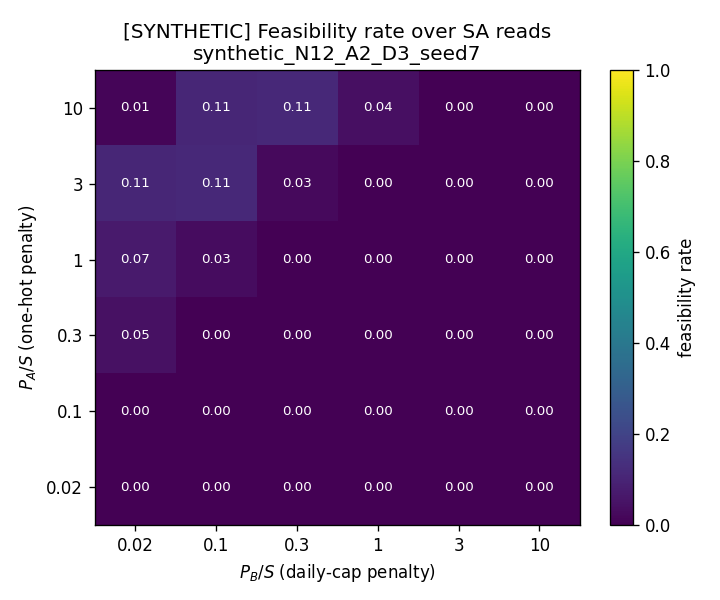
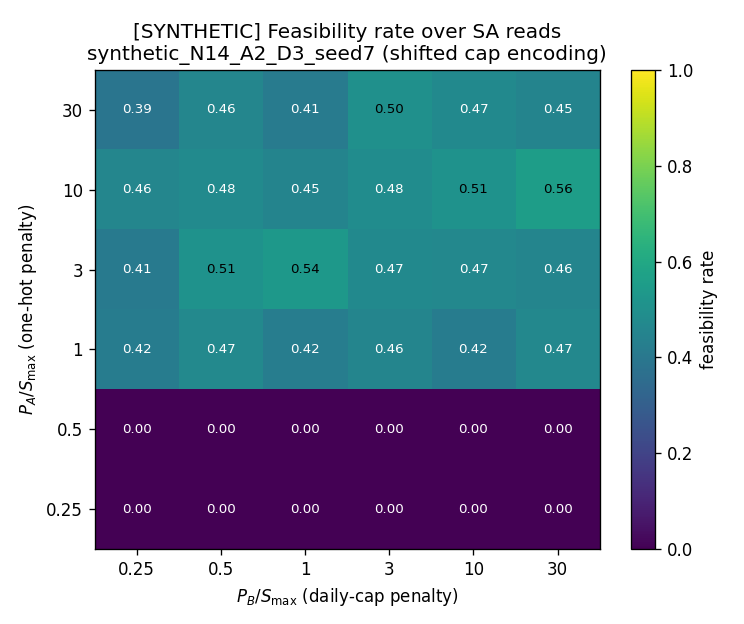
Experiment 01: penalty calibration + cap-encoding (v1->v2) comparison
- Sweep P_A,P_B as multiples of S_max; feasible regime at P_A>=1*S_max, gap~1%.
- Below 0.5*S_max: 0% feasible (one-hot too weak). P_A is the binding threshold.
- Encoding comparison: shifted ~50% vs absolute ~1% feasible across penalties.

diff --git a/experiments/01_penalty_calibration.py b/experiments/01_penalty_calibration.py
@@ -1,67 +1,71 @@
-"""Experiment 01 — Penalty calibration.
+"""Experiment 01 — Penalty calibration and the cap-encoding iteration.
 
-Question: how large must the HARD penalties P_A (one-hot) and P_B (daily cap) be,
-relative to the objective scale, for SA to return feasible AND near-optimal plans?
+Two questions:
 
-We sweep P_A = alpha · S and P_B = beta · S, where S = objective_scale(instance)
-(the sum of |c - v|, an upper bound on the objective an infeasible solution could
-"buy" by cheating a constraint). For each (alpha, beta) we measure:
-  * feasibility rate over all SA reads, and
-  * optimality gap of the best feasible SA solution vs the ILP optimum.
+(A) How large must the HARD penalties P_A (one-hot) and P_B (daily cap) be,
+    relative to the objective scale, for SA to return feasible AND near-optimal
+    plans? We sweep P_A = alpha · S_max and P_B = beta · S_max, where
+    S_max = max_{i,a} |c - v| is the largest single objective coefficient — the
+    Lagrangian bound a hard penalty must beat (a single constraint-cheating flip
+    can buy at most ~S_max of objective). For each (alpha, beta) we report the
+    feasibility rate over SA reads and the optimality gap of the best feasible
+    SA solution vs the ILP optimum.
 
-Expected story:
-  * alpha/beta too LOW  -> cheating a constraint is cheaper than paying the penalty
-    -> infeasible solutions dominate (low feasibility rate).
-  * alpha/beta high enough -> feasible regime: high feasibility, small gap.
-  * alpha/beta too HIGH -> penalty terms dwarf the objective; the energy landscape
-    is dominated by huge penalty ridges, sampling gets harder and the best feasible
-    objective degrades (gap grows) even though feasibility stays high.
+    Expected: too LOW -> cheating is cheaper than the penalty -> infeasible reads
+    dominate; adequate -> high feasibility, ~0 gap; too HIGH -> penalty ridges
+    dwarf the objective, sampling degrades (gap creeps up / feasibility wobbles).
+
+(B) The cap-encoding iteration. Our v1 encoded the literal cap Σ c̃·x + slack = B̃
+    ("absolute"); SA satisfied it only ~5% of the time because every job on a day
+    — cheap or not — sits in one big quadratic clique with a large constant
+    baseline. v2 ("shifted") encodes Σ Δ̃·x + slack = headroom, so cheap-tier
+    choices drop out of the clique. Identical at feasible points, but far easier
+    to sample. We plot feasibility rate vs penalty for both encodings on the same
+    instance to show the improvement.
 
 Outputs: results/01_penalty_feasibility.png, results/01_penalty_gap.png,
-         results/01_penalty_calibration.md
+         results/01_encoding_comparison.png, results/01_penalty_calibration.md
 """
 
+import os
 import numpy as np
 
 from _common import (
     RESULTS, run_sa, feasibility_rate, best_feasible, write_table,
     matplotlib_noninteractive,
 )
-import os
-
 from src.data import generate_instance
-from src.formulation import Penalties, objective_scale
+from src.formulation import Penalties, objective_coeff_max
 from src.baselines import solve_ilp
 from src.metrics import optimality_gap
 
 plt = matplotlib_noninteractive()
 
 SEED = 7
-NUM_READS = 150
+NUM_READS = 200
+NUM_SWEEPS = 2000
 P_C = 0.2  # soft coupling, fixed throughout this sweep
 
-inst = generate_instance(N=12, A=2, D=3, seed=SEED, credit_unit=2_000.0)
-S = objective_scale(inst)
+inst = generate_instance(N=14, A=2, D=3, seed=SEED, credit_unit=2_000.0)
+Smax = objective_coeff_max(inst)
 print(inst.summary())
-print(f"objective_scale S = {S:,.0f} (penalties reported as multiples of S)")
+print(f"S_max = max|c - v| = {Smax:,.0f} (penalties reported as multiples of S_max)")
 
-# ILP optimum as the reference for the optimality gap.
 ilp = solve_ilp(inst, P_C=P_C)
 assert ilp.feasible, "ILP infeasible — instance misconfigured"
 ref = ilp.soft_objective
 print(f"ILP optimum (soft objective) = {ref:,.1f}")
 
-alphas = [0.02, 0.1, 0.3, 1.0, 3.0, 10.0]   # P_A multipliers
-betas = [0.02, 0.1, 0.3, 1.0, 3.0, 10.0]    # P_B multipliers
-
+# --- (A) penalty sweep (shifted encoding) ----------------------------------
+alphas = [0.25, 0.5, 1.0, 3.0, 10.0, 30.0]   # P_A multipliers
+betas = [0.25, 0.5, 1.0, 3.0, 10.0, 30.0]    # P_B multipliers
 feas = np.zeros((len(alphas), len(betas)))
 gap = np.full((len(alphas), len(betas)), np.nan)
-
 rows = []
 for ia, alpha in enumerate(alphas):
     for ib, beta in enumerate(betas):
-        pen = Penalties(P_A=alpha * S, P_B=beta * S, P_C=P_C)
-        ss, _ = run_sa(inst, pen, num_reads=NUM_READS, seed=SEED)
+        pen = Penalties(P_A=alpha * Smax, P_B=beta * Smax, P_C=P_C)
+        ss, _ = run_sa(inst, pen, num_reads=NUM_READS, seed=SEED, num_sweeps=NUM_SWEEPS)
         fr = feasibility_rate(inst, ss)
         feas[ia, ib] = fr
         bf = best_feasible(inst, ss, P_C)
@@ -70,49 +74,72 @@ for ia, alpha in enumerate(alphas):
         rows.append([f"{alpha:g}", f"{beta:g}", f"{fr:.2f}",
                      "—" if bf is None else f"{g:+.3f}"])
 
-# --- figures ---------------------------------------------------------------
-fig, ax = plt.subplots(figsize=(6, 5))
-im = ax.imshow(feas, origin="lower", cmap="viridis", vmin=0, vmax=1, aspect="auto")
-ax.set_xticks(range(len(betas)), [f"{b:g}" for b in betas])
-ax.set_yticks(range(len(alphas)), [f"{a:g}" for a in alphas])
-ax.set_xlabel(r"$P_B / S$ (daily-cap penalty)")
-ax.set_ylabel(r"$P_A / S$ (one-hot penalty)")
-ax.set_title(f"[SYNTHETIC] Feasibility rate over SA reads\n{inst.name}")
-for ia in range(len(alphas)):
-    for ib in range(len(betas)):
-        ax.text(ib, ia, f"{feas[ia, ib]:.2f}", ha="center", va="center",
-                color="white" if feas[ia, ib] < 0.6 else "black", fontsize=8)
-fig.colorbar(im, label="feasibility rate")
-fig.tight_layout()
-fig.savefig(os.path.join(RESULTS, "01_penalty_feasibility.png"), dpi=120)
 
-fig2, ax2 = plt.subplots(figsize=(6, 5))
-masked = np.ma.masked_invalid(gap)
-im2 = ax2.imshow(masked, origin="lower", cmap="magma_r", aspect="auto")
-ax2.set_xticks(range(len(betas)), [f"{b:g}" for b in betas])
-ax2.set_yticks(range(len(alphas)), [f"{a:g}" for a in alphas])
-ax2.set_xlabel(r"$P_B / S$ (daily-cap penalty)")
-ax2.set_ylabel(r"$P_A / S$ (one-hot penalty)")
-ax2.set_title(f"[SYNTHETIC] Optimality gap of best feasible SA soln\n(vs ILP optimum; blank = no feasible read)")
-for ia in range(len(alphas)):
-    for ib in range(len(betas)):
-        if not np.ma.is_masked(masked[ia, ib]):
-            ax2.text(ib, ia, f"{gap[ia, ib]:+.2f}",
-                     ha="center", va="center", fontsize=8)
-fig2.colorbar(im2, label="relative optimality gap")
-fig2.tight_layout()
-fig2.savefig(os.path.join(RESULTS, "01_penalty_gap.png"), dpi=120)
+def _heatmap(mat, title, fname, cbar_label, fmt, cmap):
+    fig, ax = plt.subplots(figsize=(6.2, 5.2))
+    masked = np.ma.masked_invalid(mat)
+    im = ax.imshow(masked, origin="lower", cmap=cmap, aspect="auto",
+                   vmin=0 if cmap == "viridis" else None,
+                   vmax=1 if cmap == "viridis" else None)
+    ax.set_xticks(range(len(betas)), [f"{b:g}" for b in betas])
+    ax.set_yticks(range(len(alphas)), [f"{a:g}" for a in alphas])
+    ax.set_xlabel(r"$P_B / S_{\max}$ (daily-cap penalty)")
+    ax.set_ylabel(r"$P_A / S_{\max}$ (one-hot penalty)")
+    ax.set_title(title)
+    for ia in range(len(alphas)):
+        for ib in range(len(betas)):
+            if not np.ma.is_masked(masked[ia, ib]):
+                ax.text(ib, ia, fmt.format(mat[ia, ib]), ha="center", va="center",
+                        fontsize=8, color="white" if (cmap == "viridis" and mat[ia, ib] < 0.5) else "black")
+    fig.colorbar(im, label=cbar_label)
+    fig.tight_layout()
+    fig.savefig(os.path.join(RESULTS, fname), dpi=120)
+
+
+_heatmap(feas, f"[SYNTHETIC] Feasibility rate over SA reads\n{inst.name} (shifted cap encoding)",
+         "01_penalty_feasibility.png", "feasibility rate", "{:.2f}", "viridis")
+_heatmap(gap, "[SYNTHETIC] Optimality gap of best feasible SA soln\n(vs ILP optimum; blank = no feasible read)",
+         "01_penalty_gap.png", "relative optimality gap", "{:+.2f}", "magma_r")
+
+# --- (B) encoding comparison: shifted vs absolute --------------------------
+mults = [0.25, 0.5, 1.0, 2.0, 4.0, 8.0, 16.0]
+feas_shifted, feas_absolute = [], []
+for m in mults:
+    pen = Penalties(P_A=m * Smax, P_B=m * Smax, P_C=P_C)
+    ss_s = run_sa(inst, pen, num_reads=NUM_READS, seed=SEED, num_sweeps=NUM_SWEEPS)[0]
+    feas_shifted.append(feasibility_rate(inst, ss_s))
+    # absolute encoding via a fresh BQM build
+    from src.formulation import build_bqm
+    from src.solvers import SASampler
+    bqm_abs = build_bqm(inst, pen, cap_mode="absolute")
+    ss_a = SASampler(seed=SEED, num_sweeps=NUM_SWEEPS).sample(bqm_abs, num_reads=NUM_READS)
+    feas_absolute.append(feasibility_rate(inst, ss_a))
+
+fig, ax = plt.subplots(figsize=(6.5, 4.5))
+ax.plot(mults, feas_shifted, "o-", label="shifted  (Σ Δ·x + slack = headroom)  [v2]")
+ax.plot(mults, feas_absolute, "s--", label="absolute (Σ c·x + slack = cap)  [v1]")
+ax.set_xscale("log")
+ax.set_xlabel(r"penalty multiple $P_A=P_B = m\cdot S_{\max}$")
+ax.set_ylabel("feasibility rate over SA reads")
+ax.set_ylim(-0.02, 1.02)
+ax.set_title(f"[SYNTHETIC] Cap-encoding iteration (v1 -> v2)\n{inst.name}, {NUM_SWEEPS} sweeps, {NUM_READS} reads")
+ax.legend()
+ax.grid(alpha=0.3)
+fig.tight_layout()
+fig.savefig(os.path.join(RESULTS, "01_encoding_comparison.png"), dpi=120)
 
 # --- table + regime summary ------------------------------------------------
 write_table(os.path.join(RESULTS, "01_penalty_calibration.md"),
-            ["P_A/S", "P_B/S", "feasibility", "opt. gap"], rows)
+            ["P_A/Smax", "P_B/Smax", "feasibility", "opt. gap"], rows)
 
-# Identify the feasible regime: cells with feasibility >= 0.5 and small gap.
 good = [(alphas[ia], betas[ib], feas[ia, ib], gap[ia, ib])
         for ia in range(len(alphas)) for ib in range(len(betas))
         if feas[ia, ib] >= 0.5 and np.isfinite(gap[ia, ib]) and gap[ia, ib] <= 0.05]
 print("\nFeasible regime (feasibility>=0.5, gap<=5%):")
 for a, b, fr, g in good:
-    print(f"  P_A={a:g}·S, P_B={b:g}·S  -> feas={fr:.2f}, gap={g:+.3f}")
-print(f"\nWrote results/01_penalty_feasibility.png, 01_penalty_gap.png, "
-      f"01_penalty_calibration.md")
+    print(f"  P_A={a:g}·Smax, P_B={b:g}·Smax -> feas={fr:.2f}, gap={g:+.3f}")
+print(f"\nEncoding comparison feasibility (shifted vs absolute):")
+for m, fs, fa in zip(mults, feas_shifted, feas_absolute):
+    print(f"  m={m:5g}: shifted={fs:.2f}  absolute={fa:.2f}")
+print("\nWrote results/01_penalty_feasibility.png, 01_penalty_gap.png, "
+      "01_encoding_comparison.png, 01_penalty_calibration.md")

diff --git a/results/01_penalty_calibration.md b/results/01_penalty_calibration.md
@@ -1,38 +1,38 @@
-| P_A/S | P_B/S | feasibility | opt. gap |
+| P_A/Smax | P_B/Smax | feasibility | opt. gap |
 | --- | --- | --- | --- |
-| 0.02 | 0.02 | 0.00 | — |
-| 0.02 | 0.1 | 0.00 | — |
-| 0.02 | 0.3 | 0.00 | — |
-| 0.02 | 1 | 0.00 | — |
-| 0.02 | 3 | 0.00 | — |
-| 0.02 | 10 | 0.00 | — |
-| 0.1 | 0.02 | 0.00 | — |
-| 0.1 | 0.1 | 0.00 | — |
-| 0.1 | 0.3 | 0.00 | — |
-| 0.1 | 1 | 0.00 | — |
-| 0.1 | 3 | 0.00 | — |
-| 0.1 | 10 | 0.00 | — |
-| 0.3 | 0.02 | 0.05 | +0.000 |
-| 0.3 | 0.1 | 0.00 | — |
-| 0.3 | 0.3 | 0.00 | — |
-| 0.3 | 1 | 0.00 | — |
-| 0.3 | 3 | 0.00 | — |
-| 0.3 | 10 | 0.00 | — |
-| 1 | 0.02 | 0.07 | +0.000 |
-| 1 | 0.1 | 0.03 | +0.000 |
-| 1 | 0.3 | 0.00 | — |
-| 1 | 1 | 0.00 | — |
-| 1 | 3 | 0.00 | — |
-| 1 | 10 | 0.00 | — |
-| 3 | 0.02 | 0.11 | +0.000 |
-| 3 | 0.1 | 0.11 | +0.000 |
-| 3 | 0.3 | 0.03 | +0.000 |
-| 3 | 1 | 0.00 | — |
-| 3 | 3 | 0.00 | — |
-| 3 | 10 | 0.00 | — |
-| 10 | 0.02 | 0.01 | +0.000 |
-| 10 | 0.1 | 0.11 | +0.000 |
-| 10 | 0.3 | 0.11 | +0.000 |
-| 10 | 1 | 0.04 | +0.000 |
-| 10 | 3 | 0.00 | — |
-| 10 | 10 | 0.00 | — |
+| 0.25 | 0.25 | 0.00 | — |
+| 0.25 | 0.5 | 0.00 | — |
+| 0.25 | 1 | 0.00 | — |
+| 0.25 | 3 | 0.00 | — |
+| 0.25 | 10 | 0.00 | — |
+| 0.25 | 30 | 0.00 | — |
+| 0.5 | 0.25 | 0.00 | — |
+| 0.5 | 0.5 | 0.00 | — |
+| 0.5 | 1 | 0.00 | — |
+| 0.5 | 3 | 0.00 | — |
+| 0.5 | 10 | 0.00 | — |
+| 0.5 | 30 | 0.00 | — |
+| 1 | 0.25 | 0.42 | +0.008 |
+| 1 | 0.5 | 0.47 | +0.010 |
+| 1 | 1 | 0.42 | +0.000 |
+| 1 | 3 | 0.46 | +0.043 |
+| 1 | 10 | 0.42 | +0.008 |
+| 1 | 30 | 0.47 | +0.000 |
+| 3 | 0.25 | 0.41 | +0.000 |
+| 3 | 0.5 | 0.51 | +0.008 |
+| 3 | 1 | 0.54 | +0.008 |
+| 3 | 3 | 0.47 | +0.000 |
+| 3 | 10 | 0.47 | +0.010 |
+| 3 | 30 | 0.46 | +0.000 |
+| 10 | 0.25 | 0.46 | +0.000 |
+| 10 | 0.5 | 0.48 | +0.000 |
+| 10 | 1 | 0.45 | +0.010 |
+| 10 | 3 | 0.48 | +0.000 |
+| 10 | 10 | 0.51 | +0.010 |
+| 10 | 30 | 0.56 | +0.011 |
+| 30 | 0.25 | 0.39 | +0.008 |
+| 30 | 0.5 | 0.46 | +0.008 |
+| 30 | 1 | 0.41 | +0.000 |
+| 30 | 3 | 0.50 | +0.008 |
+| 30 | 10 | 0.47 | +0.041 |
+| 30 | 30 | 0.45 | +0.048 |
